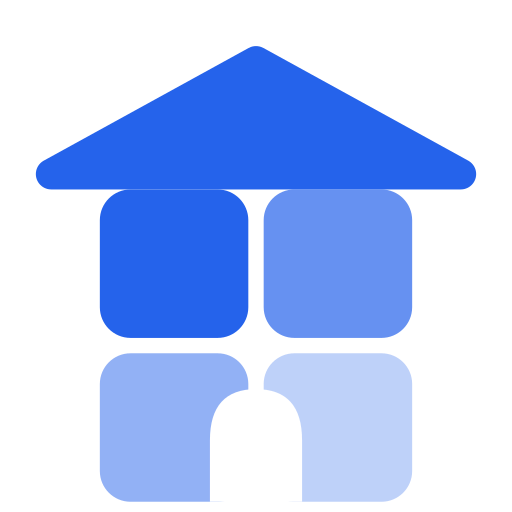
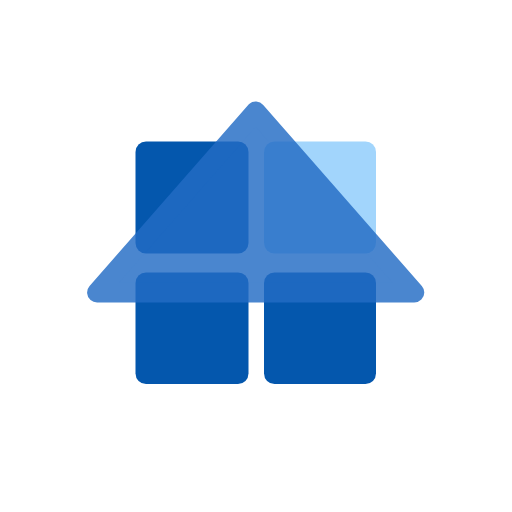
feat(brand): rebuild house mark as translucent roof over four units
The mark now layers a translucent roof triangle over the four-unit grid instead of stacking a solid roof on top with a door cutout. The roof is a single group with fill+stroke+group opacity so the overlapping edges do not double-blend.

Derives one asset per consumption context from the master SVG:
- favicon.svg with a tight viewBox (92% fill) so the mark holds up at 16px
- favicon.ico rebuilt at 16/32/48 with a 32bpp alpha channel
- apple-touch-icon.png at 180px on white, since iOS flattens alpha to black
- icon-maskable-192/512 on full-bleed white for the Android adaptive safe zone
- og-image.png at 1200x630 to match the dimensions index.html already declared

Header and footer inline marks follow their background: brand colours on the white desktop header, a white variant on the blue mobile header and the dark footer, where the brand blue would only reach 2.58:1 against #111827.

Verified: vite build 17.05s, vitest unit 223/223.

diff --git a/src/components/layout/AppHeader.vue b/src/components/layout/AppHeader.vue
@@ -4,13 +4,16 @@
       <div class="nav-wrapper">
         <router-link to="/" class="logo">
           <span class="pdl-logo pdl-logo-md">
-            <svg xmlns="http://www.w3.org/2000/svg" viewBox="0 0 32 32">
-              <polygon points="16,3.8 28.8,10.9 3.2,10.9" fill="#2563eb" stroke="#2563eb" stroke-width="2" stroke-linejoin="round"/>
-              <rect x="6.2" y="11.8" width="9.3" height="9.3" rx="2" fill="#2563eb" opacity="1"/>
-              <rect x="16.5" y="11.8" width="9.3" height="9.3" rx="2" fill="#2563eb" opacity="0.7"/>
-              <rect x="6.2" y="22.1" width="9.3" height="9.3" rx="2" fill="#2563eb" opacity="0.5"/>
-              <rect x="16.5" y="22.1" width="9.3" height="9.3" rx="2" fill="#2563eb" opacity="0.3"/>
-              <path d="M13.1 31.4 V27.5 Q13.1 24.3 16 24.3 Q18.9 24.3 18.9 27.5 V31.4 Z" fill="#fff"/>
+            <svg xmlns="http://www.w3.org/2000/svg" viewBox="0 0 1024 1024" aria-hidden="true">
+              <!-- 4 rounded squares (top-right in light blue) -->
+              <rect x="271" y="283" width="226" height="224" rx="21" fill="#0457ad"/>
+              <rect x="528" y="283" width="224" height="224" rx="21" fill="#a2d5fc"/>
+              <rect x="271" y="545" width="226" height="223" rx="21" fill="#0457ad"/>
+              <rect x="528" y="545" width="224" height="223" rx="21" fill="#0457ad"/>
+              <!-- Roof: translucent triangle layered OVER the grid (group opacity avoids double-blend at edges) -->
+              <g fill="#236cc5" stroke="#236cc5" stroke-width="40" stroke-linejoin="round" opacity="0.82">
+                <polygon points="511.4,223.1 194.2,585 828.6,585"/>
+              </g>
             </svg>
           </span>
           <span class="logo-text">AlquiLibres</span>
@@ -64,12 +67,14 @@
           <div class="mobile-header">
             <div class="mobile-logo">
               <span class="pdl-logo pdl-logo-sm">
-                <svg xmlns="http://www.w3.org/2000/svg" viewBox="0 0 32 32">
-                  <polygon points="16,3.8 28.8,10.9 3.2,10.9" fill="white" stroke="white" stroke-width="2" stroke-linejoin="round"/>
-                  <rect x="6.2" y="11.8" width="9.3" height="9.3" rx="2" fill="white" opacity="1"/>
-                  <rect x="16.5" y="11.8" width="9.3" height="9.3" rx="2" fill="white" opacity="0.7"/>
-                  <rect x="6.2" y="22.1" width="9.3" height="9.3" rx="2" fill="white" opacity="0.5"/>
-                  <rect x="16.5" y="22.1" width="9.3" height="9.3" rx="2" fill="white" opacity="0.3"/>
+                <svg xmlns="http://www.w3.org/2000/svg" viewBox="0 0 1024 1024" aria-hidden="true">
+                  <rect x="271" y="283" width="226" height="224" rx="21" fill="#fff" opacity="0.5"/>
+                  <rect x="528" y="283" width="224" height="224" rx="21" fill="#fff" opacity="0.7"/>
+                  <rect x="271" y="545" width="226" height="223" rx="21" fill="#fff" opacity="0.5"/>
+                  <rect x="528" y="545" width="224" height="223" rx="21" fill="#fff" opacity="0.5"/>
+                  <g fill="#fff" stroke="#fff" stroke-width="40" stroke-linejoin="round" opacity="0.85">
+                    <polygon points="511.4,223.1 194.2,585 828.6,585"/>
+                  </g>
                 </svg>
               </span>
               <span>AlquiLibres</span>

diff --git a/src/components/layout/AppFooter.vue b/src/components/layout/AppFooter.vue
@@ -5,13 +5,14 @@
         <div class="footer-section">
           <h3 class="footer-title">
             <span class="pdl-logo pdl-logo-sm">
-            <svg xmlns="http://www.w3.org/2000/svg" viewBox="0 0 32 32">
-              <polygon points="16,3.8 28.8,10.9 3.2,10.9" fill="#2563eb" stroke="#2563eb" stroke-width="2" stroke-linejoin="round"/>
-              <rect x="6.2" y="11.8" width="9.3" height="9.3" rx="2" fill="#2563eb" opacity="1"/>
-              <rect x="16.5" y="11.8" width="9.3" height="9.3" rx="2" fill="#2563eb" opacity="0.7"/>
-              <rect x="6.2" y="22.1" width="9.3" height="9.3" rx="2" fill="#2563eb" opacity="0.5"/>
-              <rect x="16.5" y="22.1" width="9.3" height="9.3" rx="2" fill="#2563eb" opacity="0.3"/>
-              <path d="M13.1 31.4 V27.5 Q13.1 24.3 16 24.3 Q18.9 24.3 18.9 27.5 V31.4 Z" fill="#fff"/>
+            <svg xmlns="http://www.w3.org/2000/svg" viewBox="0 0 1024 1024" aria-hidden="true">
+              <rect x="271" y="283" width="226" height="224" rx="21" fill="#fff" opacity="0.5"/>
+              <rect x="528" y="283" width="224" height="224" rx="21" fill="#fff" opacity="0.7"/>
+              <rect x="271" y="545" width="226" height="223" rx="21" fill="#fff" opacity="0.5"/>
+              <rect x="528" y="545" width="224" height="223" rx="21" fill="#fff" opacity="0.5"/>
+              <g fill="#fff" stroke="#fff" stroke-width="40" stroke-linejoin="round" opacity="0.85">
+                <polygon points="511.4,223.1 194.2,585 828.6,585"/>
+              </g>
             </svg>
             </span>
             AlquiLibres
